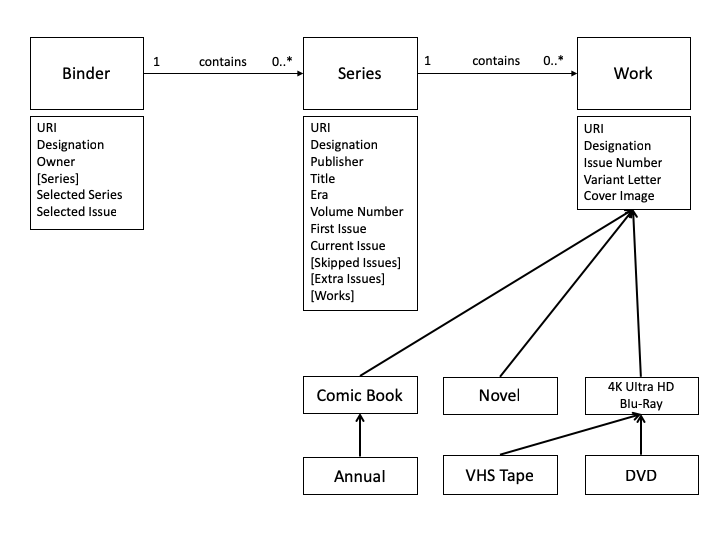
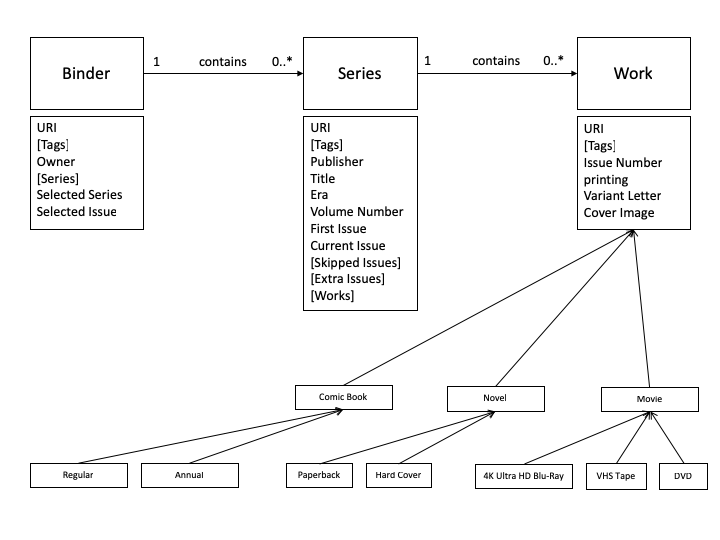
updated architecture

diff --git a/ARCHITECTURE.md b/ARCHITECTURE.md
@@ -1,7 +1,40 @@
-# Architecture
+# Book Binder Architecture
 
-## Models
+## Objects
 
 ![Book Binder Class Diagram](book-binder-class-diagram.png)
 
+A binder represents a collection of works: comic books, baseball cards,
+DVDs, paperback novels, etc.... Related works are organized into series.
 
+A series represents a set of associated works: books in a trilogy, a set of
+movie sequels, or issues of a comic book. Series are sometimes published in 
+volumes or sets of related issues.
+
+A work represents a published work of art. Works are published in a series
+with a first issue, multiple following issues, and a current or final issue.
+Works are sometimes reprinted with minor variations, for example, corrected
+text, or major variations, for example an alternate cover.
+
+In general publishing works of art is a messy, semi-organized process. Not all
+works are numbered sequentially or published in order. Issues numbers are
+skipped or extra issues are inserted. Sometimes issues are not numbered and
+there is no simple method to identify the location of an work in a series.
+
+Therefore the Book Binder model is going to change and we try to fit the
+messy world of publishing into a well ordered system.
+
+In an effort to model the mess we provide both a predefined hierarchy of works
+and a open system of tags. Thus a movie maybe published on VHS Tape and DVD
+and also be a director's cut. Tags should be used for editions of a work
+while the works hierarchy should used for media types. Since media technology
+changes more slowly than editorial formats (editions) we should be able to
+keep up with the pace of technology changes.
+
+## Shared Properties
+
+Each object in the Book Binder app has a URI. A full URI describes the
+address of a work in the predefined hierarchy of works.
+
+Each object in the Book Binder app has a list of tags. Tag should be used to
+associate works across the hierarchy such as language or corrected edition.
